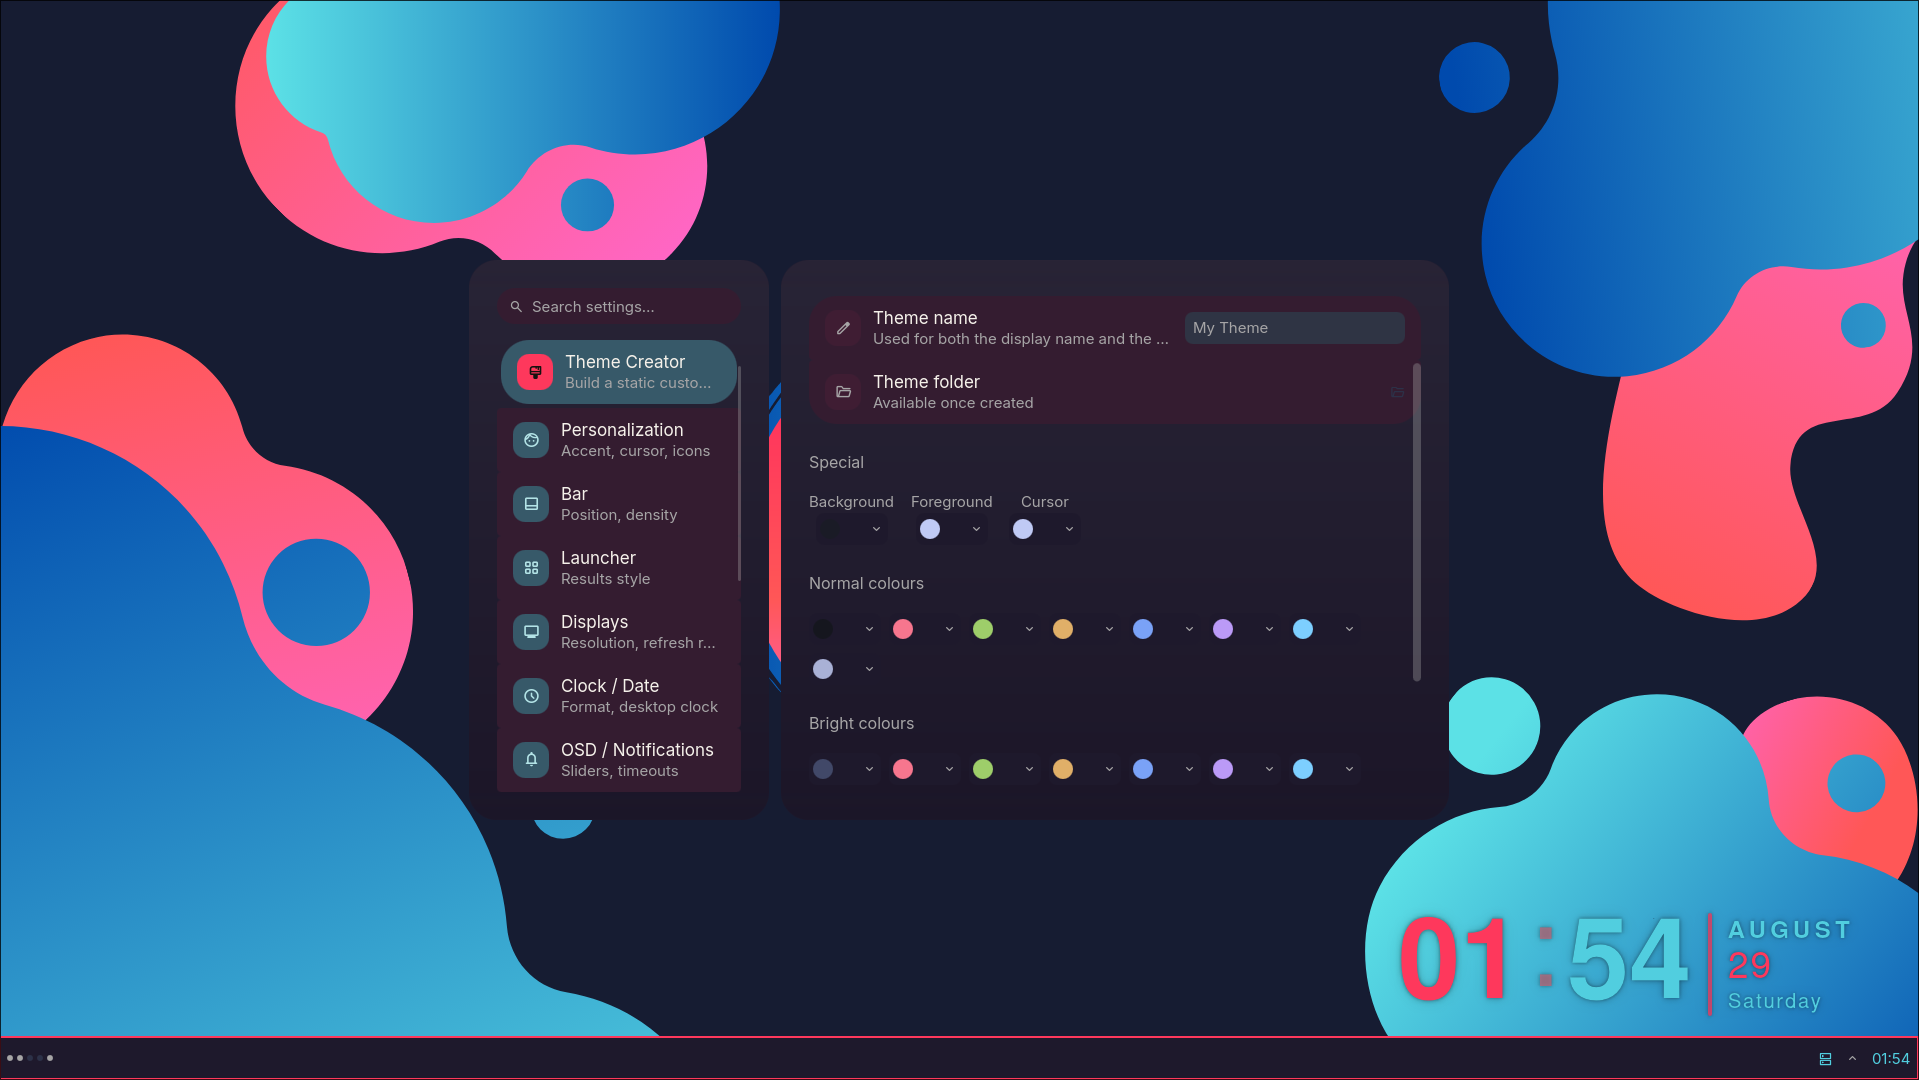
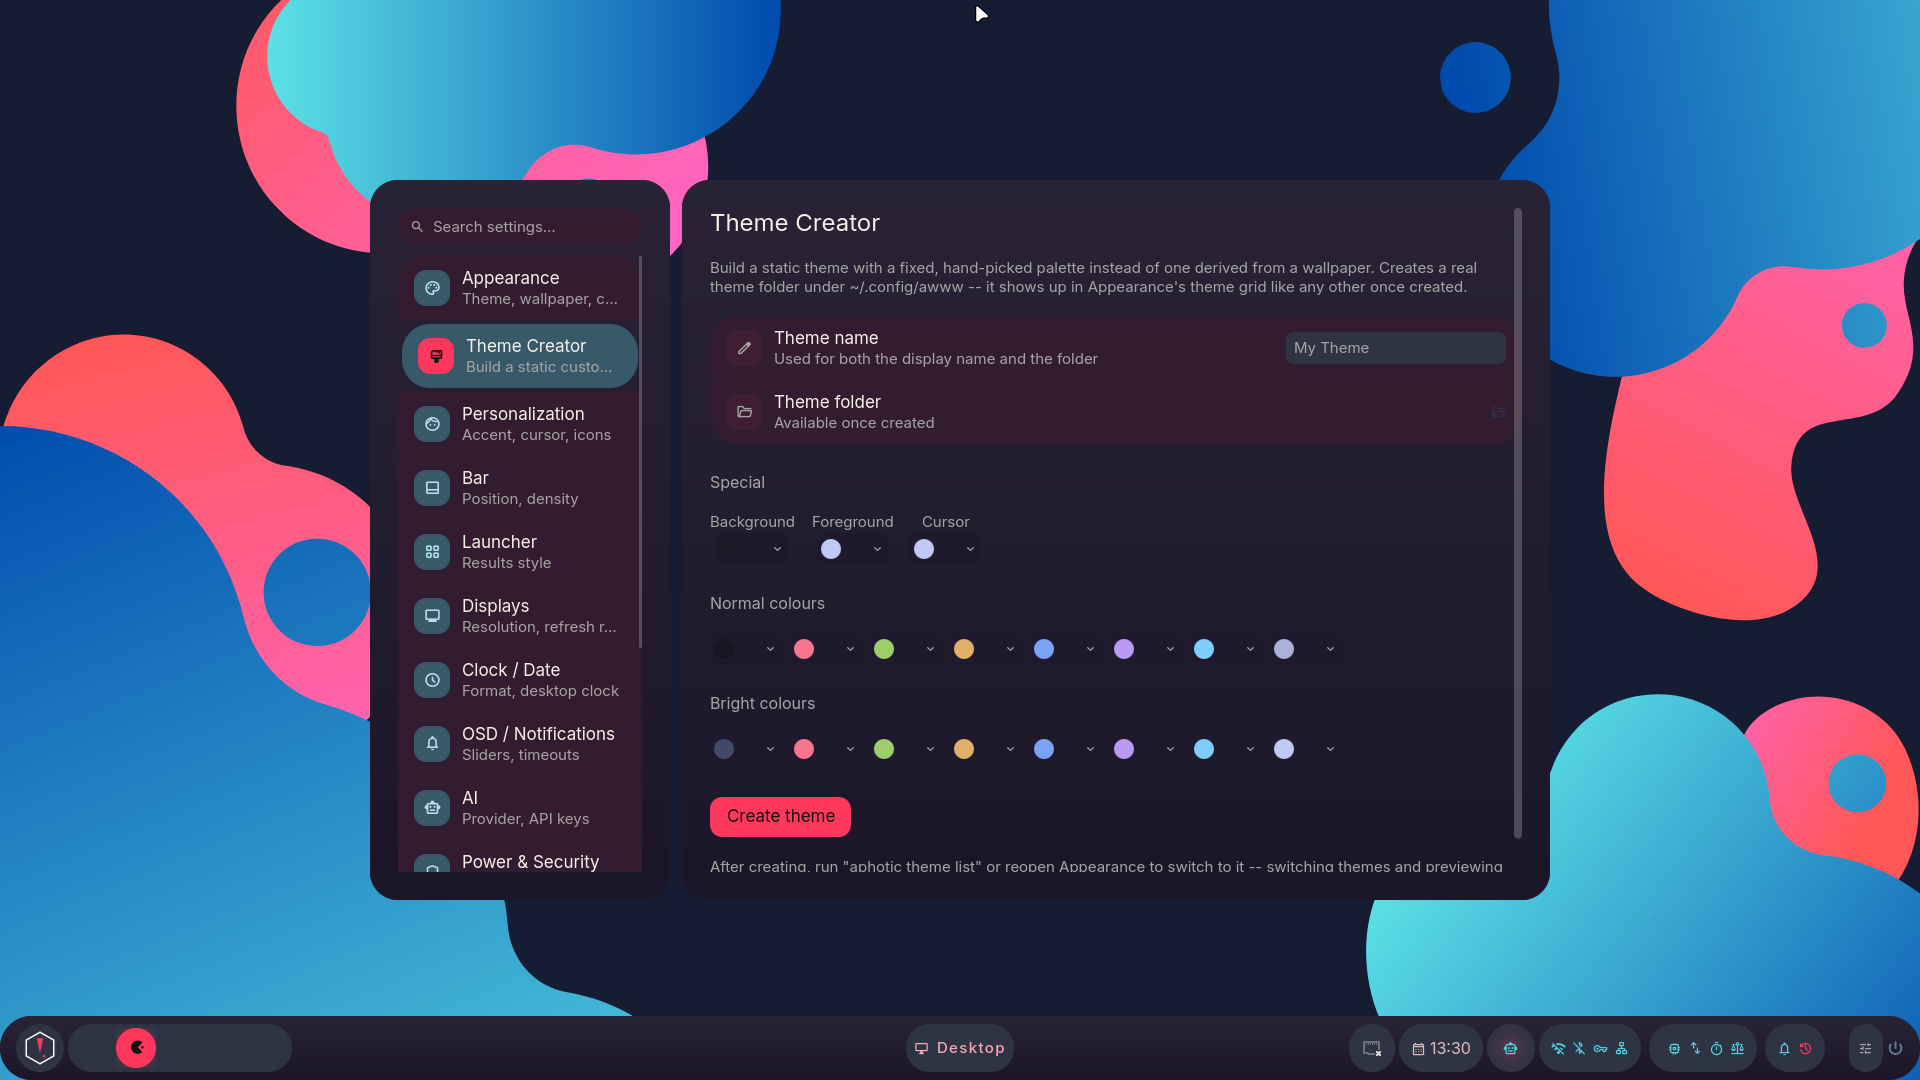
README: expand the gallery to cover the current UI
Adds the eleven new screenshots and re-shoots seven existing ones, which
takes the gallery from 14 images to 25.

New "Agents & plugins" section, because the modular plugin system is the
thing the existing sections had no room to show: the Agent Graph tab,
the same Command Center with that plugin removed so the tab is simply
absent, and the bar's Agents popout switching between harnesses. The
plugin browser moves here from "Theming & settings", where it sat next
to the theme tooling for want of a better home.

Elsewhere: Taskbar and Minimal join Full and Dock so all four bar styles
are shown rather than described; Command Center picks up its Wallpapers
and AI Chat tabs; Theming & settings picks up the Appearance pane, the
Bar style picker, and the System doctor.

Claude-Session: https://claude.ai/code/session_01KM7cL9sDuiS2pWNf1Vzqie

diff --git a/README.md b/README.md
@@ -53,6 +53,10 @@ https://github.com/user-attachments/assets/a9a2ff29-4c57-4e1f-b4e9-e3a93e995c2a
 <td width="50%"><p align="center"><img src="./assets/screenshots/bar-dock.png" width="440"><br><sub>Bar: Dock style</sub></p></td>
 </tr>
 <tr>
+<td width="50%"><p align="center"><img src="./assets/screenshots/bar-taskbar.png" width="440"><br><sub>Bar: Taskbar style — window list, grouped by app</sub></p></td>
+<td width="50%"><p align="center"><img src="./assets/screenshots/bar-minimal.png" width="440"><br><sub>Bar: Minimal style — thin strip, DND indicator only</sub></p></td>
+</tr>
+<tr>
 <td width="50%"><p align="center"><img src="./assets/screenshots/workspaces.png" width="440"><br><sub>Workspaces</sub></p></td>
 <td width="50%"><p align="center"><img src="./assets/screenshots/launcher.png" width="440"><br><sub>Launcher</sub></p></td>
 </tr>
@@ -66,11 +70,32 @@ https://github.com/user-attachments/assets/a9a2ff29-4c57-4e1f-b4e9-e3a93e995c2a
 
 <table>
 <tr>
-<td width="50%"><p align="center"><img src="./assets/screenshots/dashboard.png" width="440"><br><sub>Dashboard</sub></p></td>
+<td width="50%"><p align="center"><img src="./assets/screenshots/dashboard.png" width="440"><br><sub>Dashboard — clock, calendar, media, focus timer, weather</sub></p></td>
 <td width="50%"><p align="center"><img src="./assets/screenshots/performance.png" width="440"><br><sub>Performance</sub></p></td>
 </tr>
 <tr>
-<td width="50%"><p align="center"><img src="./assets/screenshots/workspace-profiles.png" width="440"><br><sub>Workspace Profiles</sub></p></td>
+<td width="50%"><p align="center"><img src="./assets/screenshots/dashboard-wallpaper.png" width="440"><br><sub>Wallpapers tab — the active theme's own set</sub></p></td>
+<td width="50%"><p align="center"><img src="./assets/screenshots/dashboard-chat.png" width="440"><br><sub>AI Chat tab — provider and model picker</sub></p></td>
+</tr>
+</table>
+
+</details>
+
+<details>
+<summary><b>Agents &amp; plugins</b></summary>
+<br>
+
+<table>
+<tr>
+<td width="50%"><p align="center"><img src="./assets/screenshots/agent-graph.png" width="440"><br><sub>Agent Graph — every tool call as the agent makes it</sub></p></td>
+<td width="50%"><p align="center"><img src="./assets/screenshots/no-agent-graph-dashboard-modular.png" width="440"><br><sub>The same Command Center without the plugin — the tab is simply gone</sub></p></td>
+</tr>
+<tr>
+<td width="50%"><p align="center"><img src="./assets/screenshots/agent-bar-modular.png" width="440"><br><sub>Agents popout — running sessions and today's token use</sub></p></td>
+<td width="50%"><p align="center"><img src="./assets/screenshots/agent-bar-modular-codex.png" width="440"><br><sub>Middle-click the bar icon to switch harness</sub></p></td>
+</tr>
+<tr>
+<td width="50%"><p align="center"><img src="./assets/screenshots/plugins.png" width="440"><br><sub>Plugins — browse, install, enable, remove</sub></p></td>
 <td width="50%"></td>
 </tr>
 </table>
@@ -100,12 +125,20 @@ https://github.com/user-attachments/assets/a9a2ff29-4c57-4e1f-b4e9-e3a93e995c2a
 
 <table>
 <tr>
+<td width="50%"><p align="center"><img src="./assets/screenshots/theme.png" width="440"><br><sub>Appearance — theme, wallpaper, slideshow</sub></p></td>
 <td width="50%"><p align="center"><img src="./assets/screenshots/wallpaper-picker.png" width="440"><br><sub>Wallpaper Picker</sub></p></td>
-<td width="50%"><p align="center"><img src="./assets/screenshots/theme-creator.png" width="440"><br><sub>Theme Creator</sub></p></td>
 </tr>
 <tr>
+<td width="50%"><p align="center"><img src="./assets/screenshots/theme-creator.png" width="440"><br><sub>Theme Creator</sub></p></td>
 <td width="50%"><p align="center"><img src="./assets/screenshots/personalization.png" width="440"><br><sub>Personalization</sub></p></td>
-<td width="50%"><p align="center"><img src="./assets/screenshots/plugins.png" width="440"><br><sub>Plugins</sub></p></td>
+</tr>
+<tr>
+<td width="50%"><p align="center"><img src="./assets/screenshots/bar-style.png" width="440"><br><sub>Bar — style, visibility, orientation</sub></p></td>
+<td width="50%"><p align="center"><img src="./assets/screenshots/workspace-profiles.png" width="440"><br><sub>Workspace Profiles</sub></p></td>
+</tr>
+<tr>
+<td width="50%"><p align="center"><img src="./assets/screenshots/system.png" width="440"><br><sub>System — doctor, dependency and package checks</sub></p></td>
+<td width="50%"></td>
 </tr>
 </table>
 
